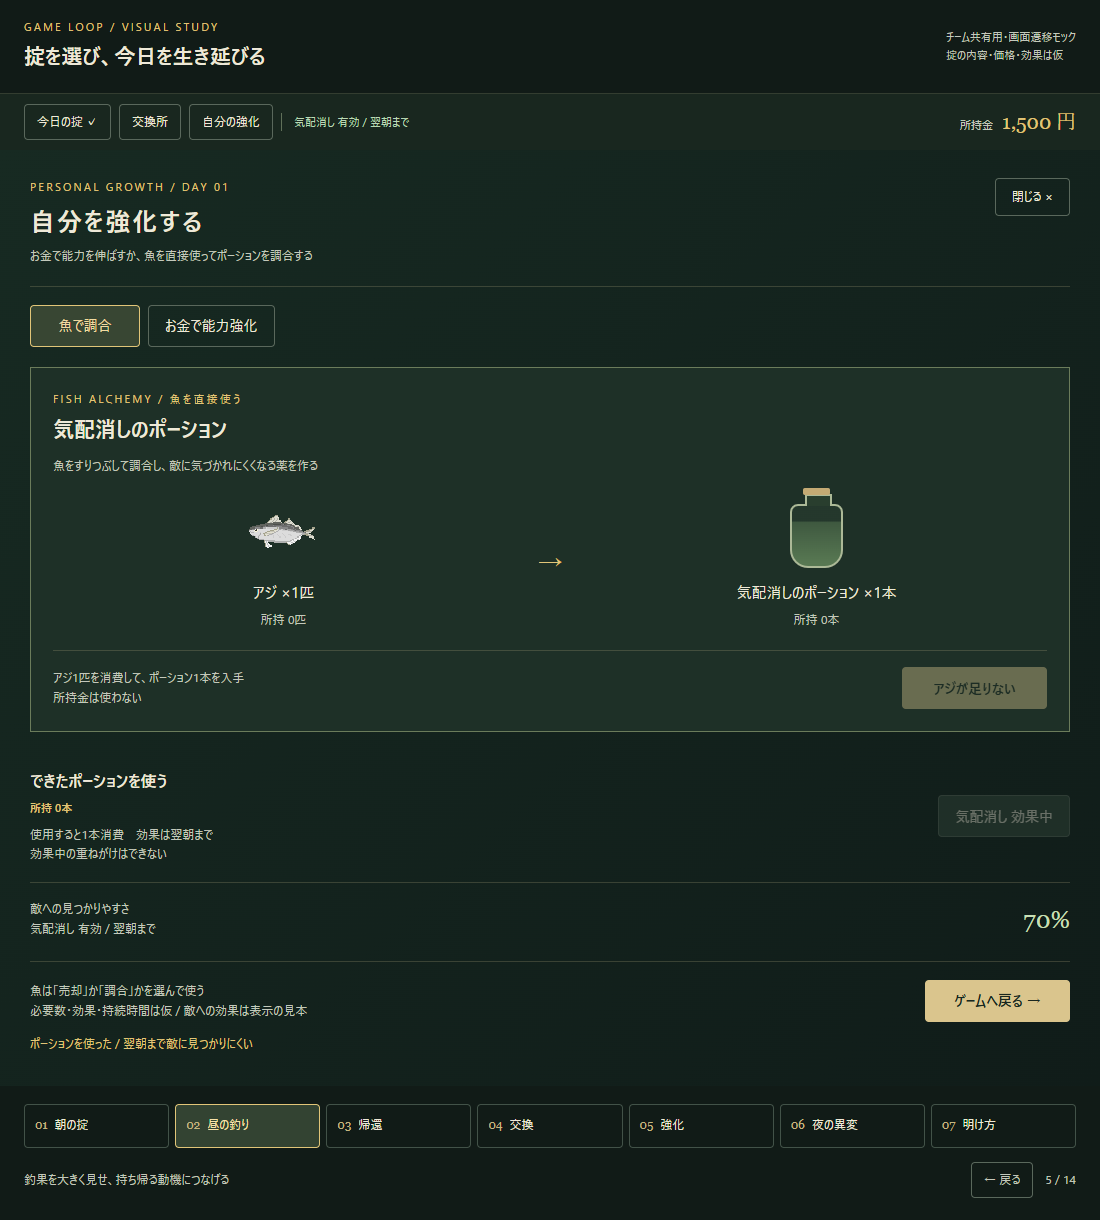
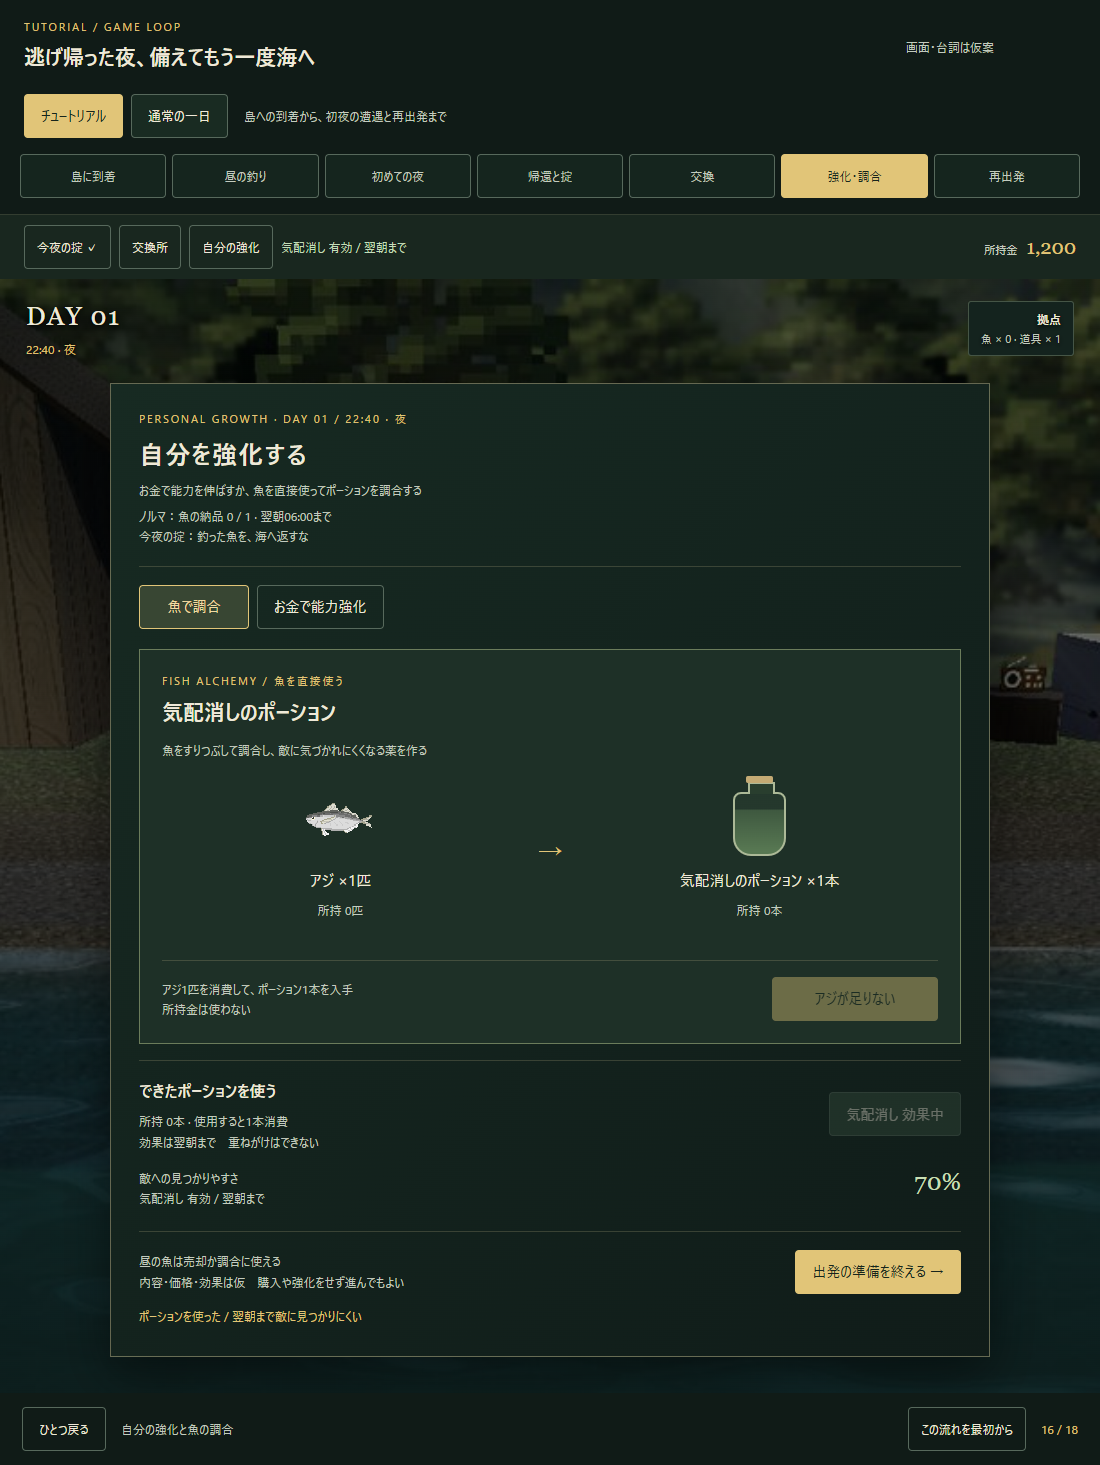
日・週の追加

diff --git a/Assets/_Project/Scripts/Core/GameProgress.cs b/Assets/_Project/Scripts/Core/GameProgress.cs
@@ -1,6 +1,8 @@
 using System;
 using System.Collections.Generic;
 using R3;
+using UnityEngine;
+
 namespace _Project.Scripts.Core
 {
     public class GameProgress : IDisposable
@@ -31,7 +33,7 @@ namespace _Project.Scripts.Core
             _currentDay = _gameSeconds
                 .Select(seconds => (int)(seconds / (3600f * 24f)) + 1)
                 .ToReadOnlyReactiveProperty();
-            _currentDay = _gameSeconds
+            _currentWeek = _gameSeconds
                 .Select(seconds => (int)(seconds / ((3600f * 24f) * 7)) + 1)
                 .ToReadOnlyReactiveProperty();
 
@@ -60,6 +62,39 @@ namespace _Project.Scripts.Core
         public void AdvanceGameTimeSeconds(float seconds)
         {
             _gameSeconds.Value += seconds;
+        }
+
+        ///<summary>
+        /// ゲーム内時間を指定時刻まで進める
+        /// </summary>
+        public void AdvanceGameTimeHours(int hours)
+        {
+            if (hours < 0 || hours > 23)
+            {
+                Debug.Log("指定している時刻がおかしい");
+                return;
+            }
+
+            // 既に目的の時間帯なら、そのままにする
+            if (GetTimeOfDay(_gameHours.CurrentValue) == GetTimeOfDay(hours))
+                return;
+
+            float secondsPerDay = 24 * 3600f;  //一日の時間
+            float currentSeconds = _gameSeconds.Value;
+
+            // 今日の0時を基準に、指定のの時刻を求める
+            // 経過日数を求める(intで切り捨て) -> 1日分の秒数を掛けて０時にする
+            float dayStart = (int)(currentSeconds / secondsPerDay) * secondsPerDay;
+            // 指定時刻を求める
+            float targetSeconds = dayStart + hours * 3600f;
+
+            // 翌日に進める必要がある場合
+            if (targetSeconds < currentSeconds)
+                targetSeconds += secondsPerDay;
+
+            // 時間を巻き戻さず、必要な場合だけ進める
+            if (targetSeconds > currentSeconds)
+                AdvanceGameTimeSeconds(targetSeconds - currentSeconds); // 差分を代入
         }
 
         /// <summary>捕獲から戻った後に再生する会話を予約する</summary>
@@ -129,8 +164,8 @@ namespace _Project.Scripts.Core
         /// <returns></returns>
         private static TimeOfDay GetTimeOfDay(int hour)
         {
-            if(hour >= 18 || hour < 5) return TimeOfDay.Night;
-            if(hour >= 16) return TimeOfDay.Evening;
+            if(hour >= 19 || hour < 4) return TimeOfDay.Night;
+            if(hour >= 17) return TimeOfDay.Evening;
             if(hour >= 7)  return TimeOfDay.Day;
             return TimeOfDay.Dawn;
         }

diff --git a/Assets/_Project/Scripts/Controller/TutorialController.cs b/Assets/_Project/Scripts/Controller/TutorialController.cs
@@ -102,7 +102,8 @@ namespace Controller
             {
                 _gameProgress.SetStoryFlag(StoryFlag.FirstFishingCompleted);
                 // 帰還までを夕方とし、キャンプ到着時に夜へ進める
-                _gameProgress.StartEvening();
+                _gameProgress.AdvanceGameTimeHours(17);
+                //_gameProgress.StartEvening();
                 SetStep(TutorialStep.ReturnToCollectionAtNight);
                 return true;
             }
@@ -124,7 +125,8 @@ namespace Controller
         {
             if (CurrentStep == TutorialStep.ReturnToCollectionAtNight)
             {
-                _gameProgress.StartNight();
+                _gameProgress.AdvanceGameTimeHours(19);
+                //_gameProgress.StartNight();
                 SetStep(TutorialStep.TalkToRadioBeforeFirstExchange);
                 return true;
             }

diff --git a/Assets/_Project/Scripts/View/GameTimeView.cs b/Assets/_Project/Scripts/View/GameTimeView.cs
@@ -26,9 +26,12 @@ public class GameTimeView : MonoBehaviour
         _gameProgress.CurrentDay
             .Subscribe(UpdateDayText)
             .AddTo(this);
+        _gameProgress.CurrentWeek
+            .Subscribe(UpdateWeekText)
+            .AddTo(this);
     }
 
-   // 時計の秒針を現実世界で12分で一周、ゲーム内時間で24時間で一周動かす
+   // 時計の秒針を現実世界で24分で一周、ゲーム内時間で24時間で一周動かす
     private void ChangeClockHand(float second)
     {
         // 時刻を0時以上24時未満へ収める
